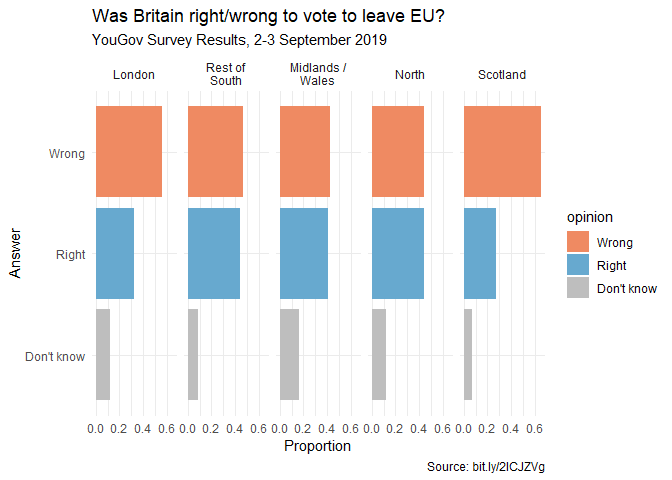
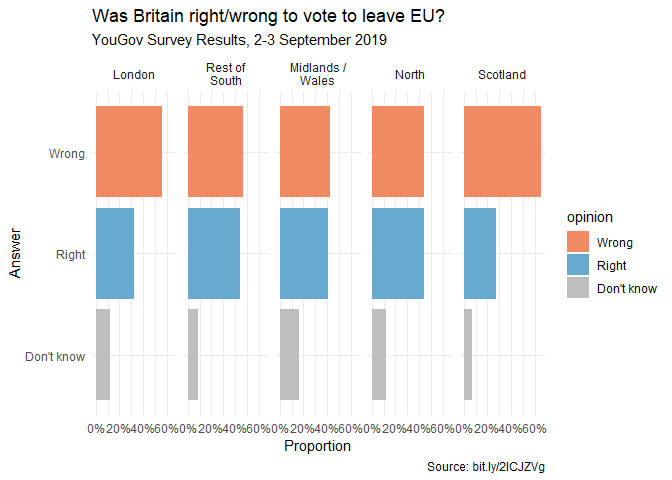
Exersice 3 and 4

Changed region(s): [[0.125, 0.875, 0.8125, 0.9062]]

diff --git a/brexit.md b/brexit.md
@@ -115,7 +115,8 @@ brexit %>%
     caption = "Source: bit.ly/2lCJZVg",
     x = "Proportion", y = "Answer"
   ) +
-  theme_minimal()
+  theme_minimal() +
+  scale_x_continuous(labels = label_percent())
 ```
 
 ![](brexit_files/figure-gfm/unnamed-chunk-4-1.png)<!-- -->
@@ -128,5 +129,23 @@ faceting by region and then improve the legend. How is the story this
 visualization telling different than the story the previous plot tells?
 
 ``` r
-# code goes here
+brexit %>% 
+  count(region, opinion) %>% 
+  group_by(region) %>% 
+  mutate(opin.porportion = n/ sum(n)) %>% 
+  ggplot(aes(y = fct_rev(region), x = opin.porportion, fill = opinion)) +
+  geom_col(position = "dodge") +
+  theme_minimal() +
+  labs(
+    title = "Was Britain right/wrong to vote to leave EU?",
+    subtitle = "YouGov Survey Results, 2-3 September 2019",
+    caption = "Source: bit.ly/2lCJZVg",
+    x = NULL, y = NULL, fill = "Opinion") +
+  scale_fill_manual(values = c(
+    "Wrong" = "#ef8a62",
+    "Right" = "#67a9cf",
+    "Don't know" = "gray"
+  ))
 ```
+
+![](brexit_files/figure-gfm/unnamed-chunk-5-1.png)<!-- -->
